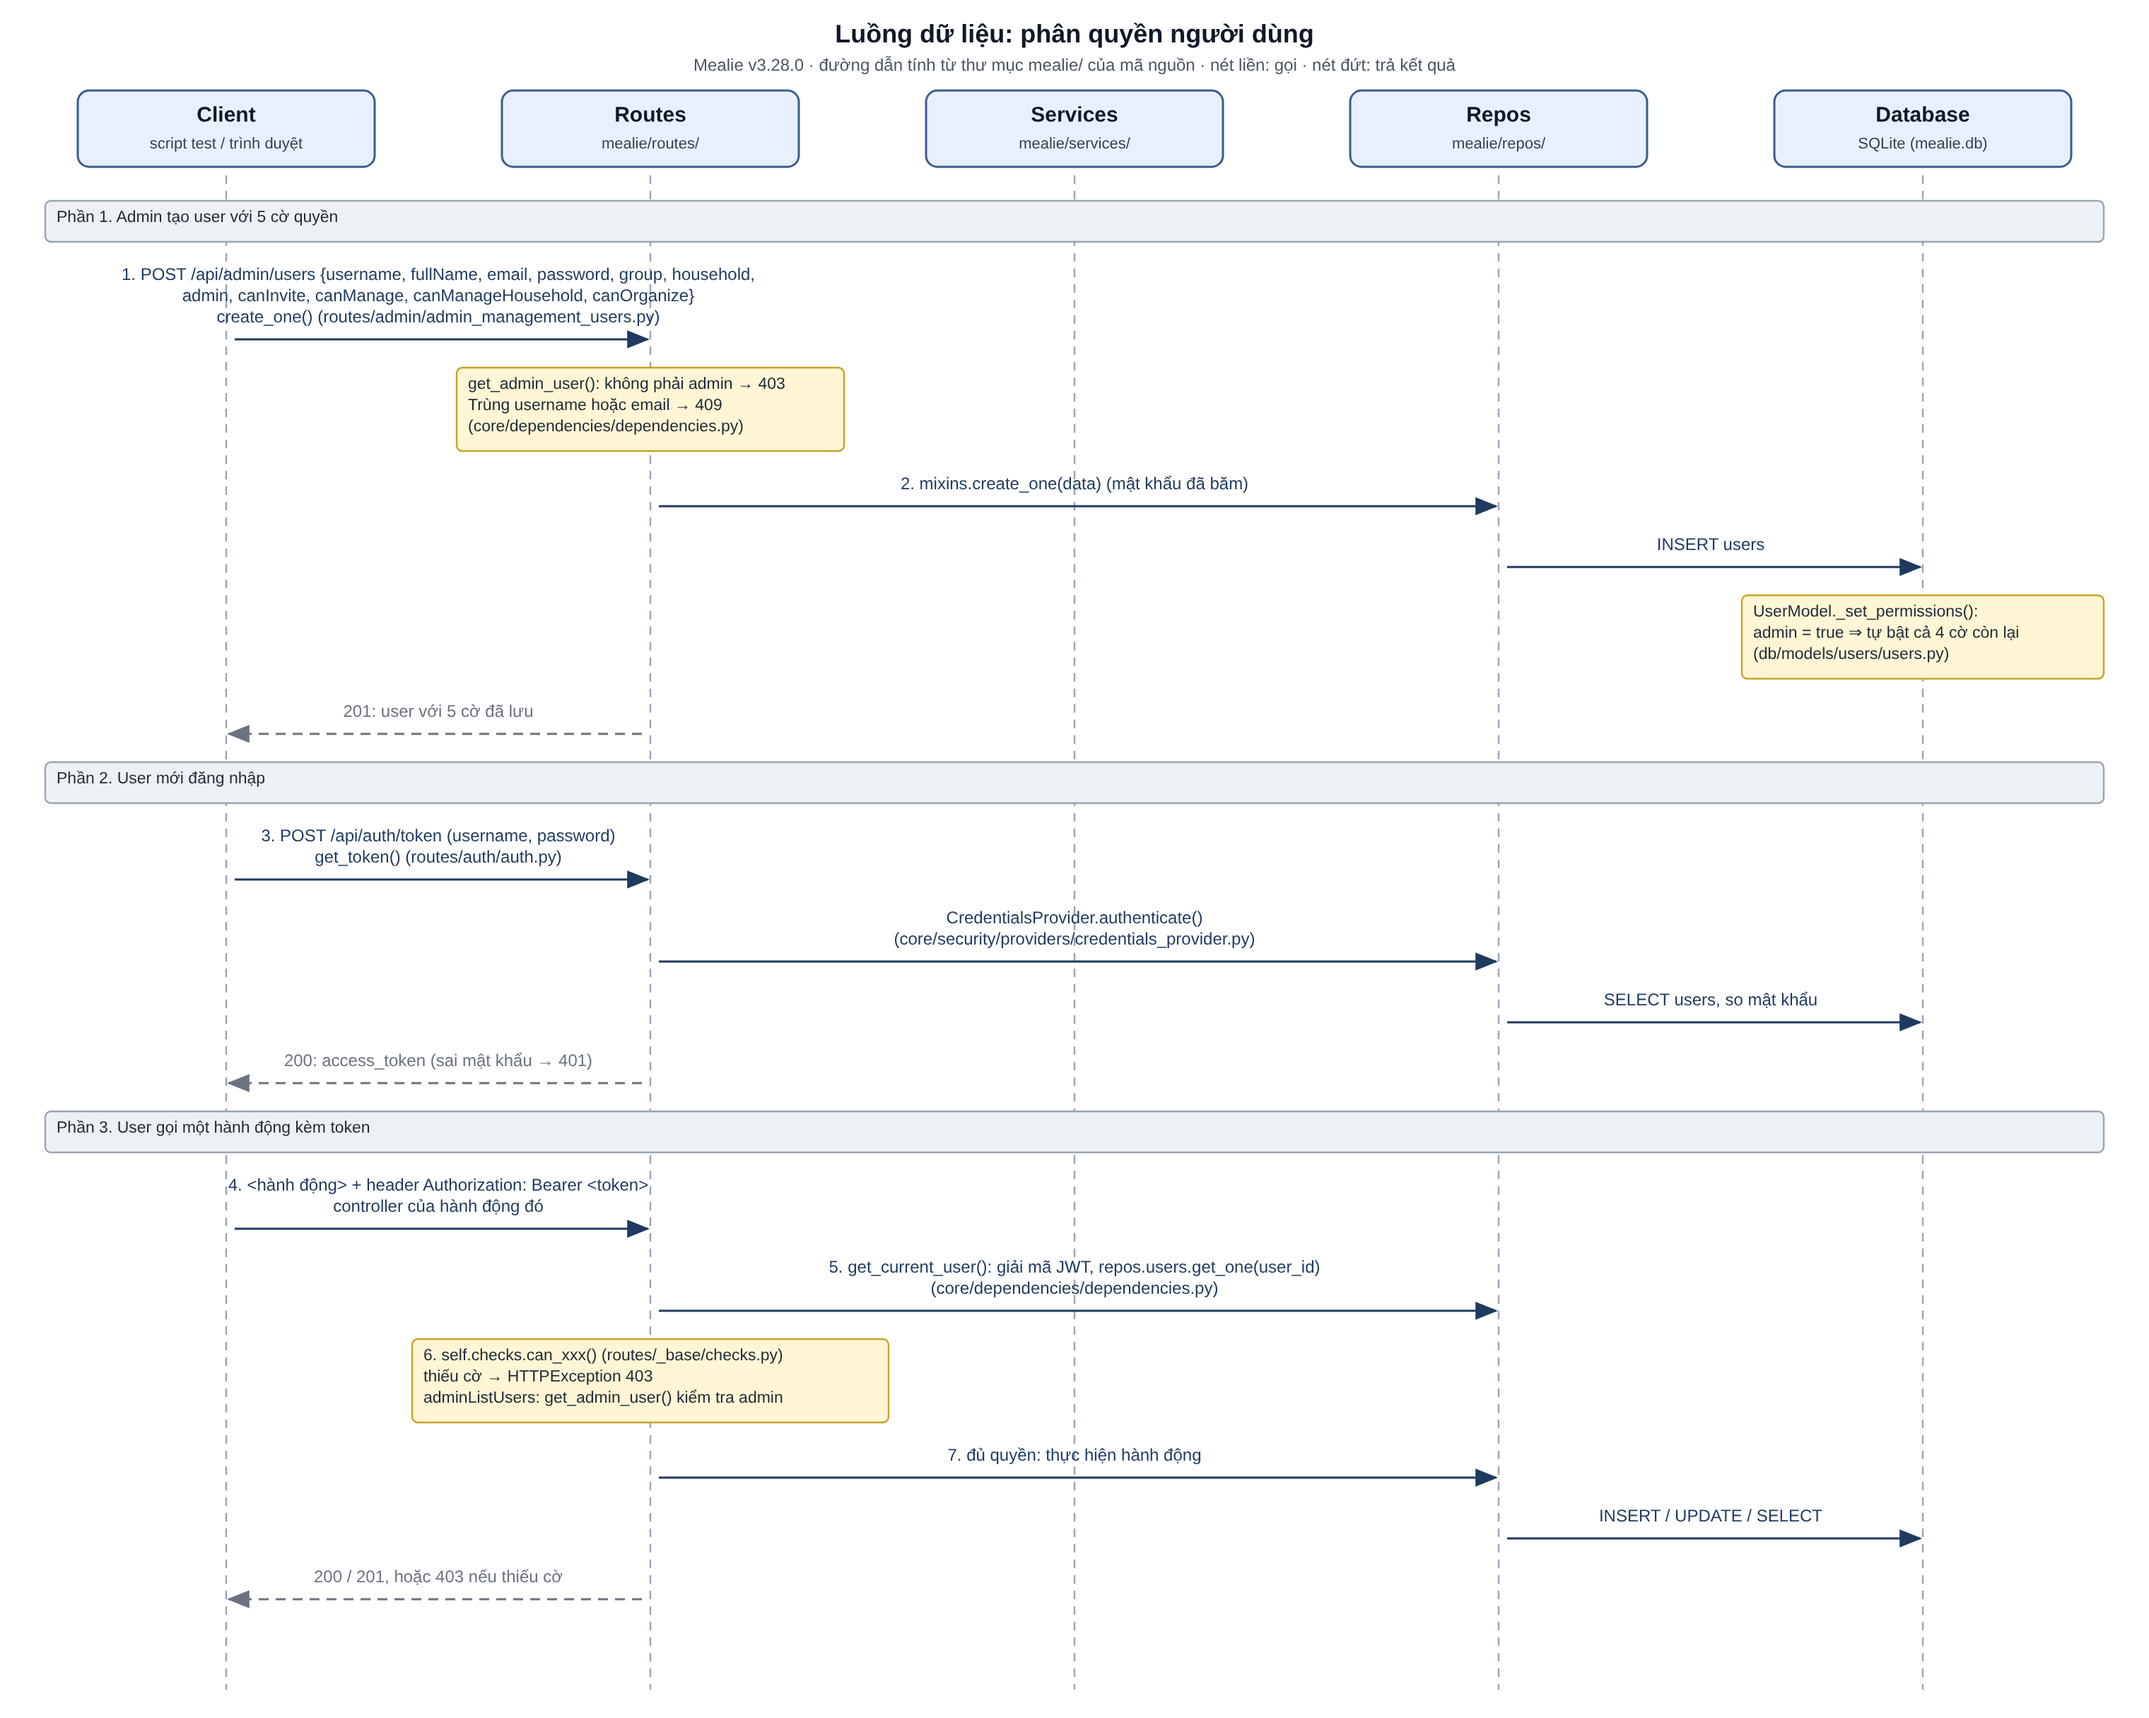
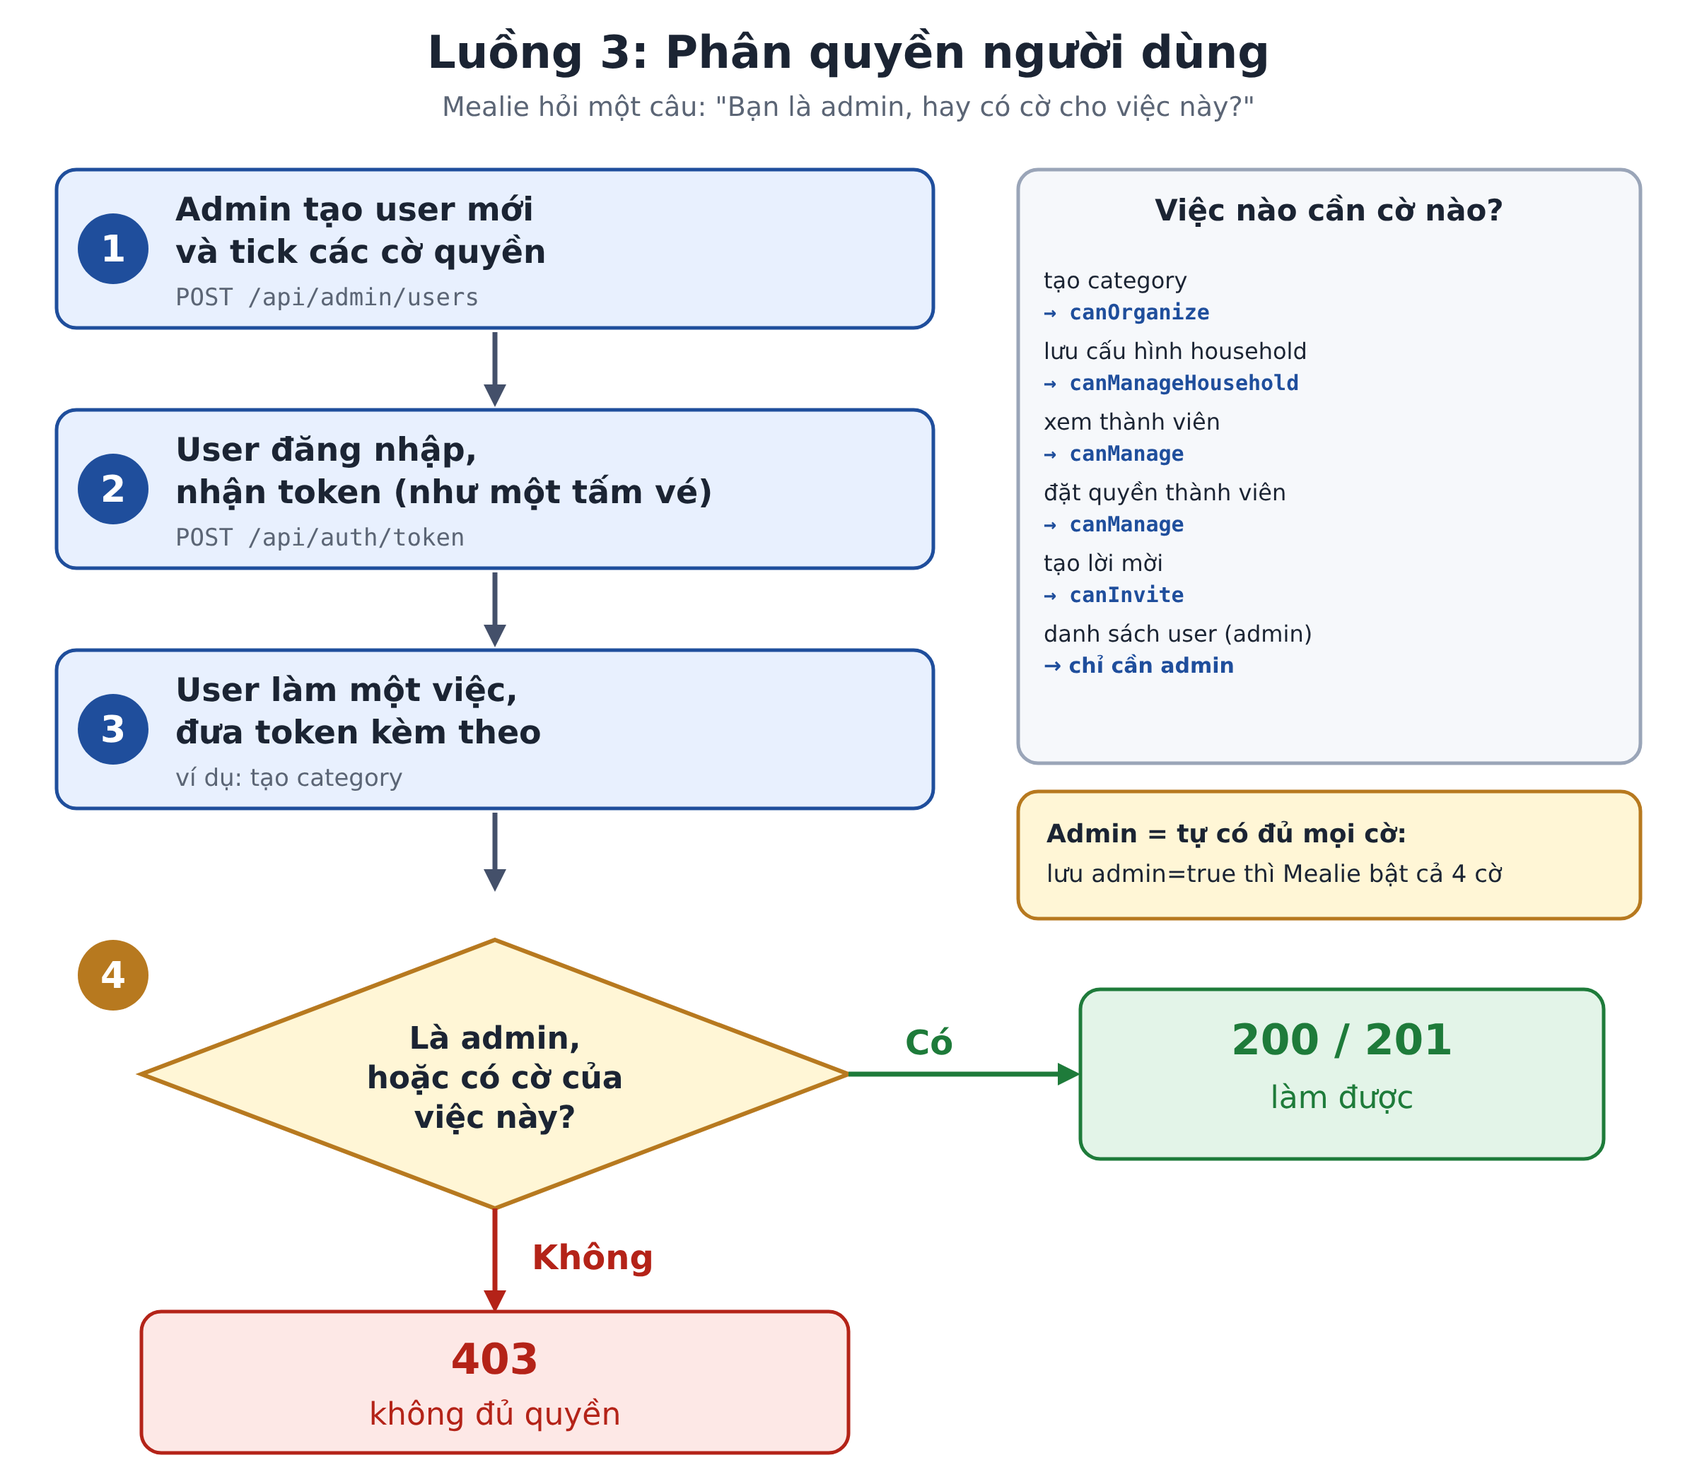
[A] Cập nhật sơ đồ luồng và API

diff --git a/docs/muc-a.md b/docs/muc-a.md
@@ -150,7 +150,7 @@ SQLite là mặc định (`DB_ENGINE = "sqlite"` trong `core/settings/settings.p
 
 ## A.6 Luồng dữ liệu của 3 nghiệp vụ
 
-Mỗi sơ đồ dưới đây là sơ đồ tuần tự gồm 5 cột: Client (script test hoặc trình duyệt), Routes, Services, Repos, Database. Mũi tên nét liền là lời gọi, nét đứt là kết quả trả về; trên mũi tên ghi tên hàm thật của Mealie `v3.28.0`, đường dẫn tính từ thư mục `mealie/` của mã nguồn. File nguồn `.drawio` nằm trong `docs/so-do/`.
+Mỗi sơ đồ dưới đây vẽ một luồng từ trên xuống dưới. Mỗi ô là một bước, tên API hoặc hàm thật của Mealie `v3.28.0` (nếu có) ghi bằng chữ nhỏ trong ô; ô màu xanh lá là kết quả mong đợi, ô màu đỏ là trường hợp bị từ chối hoặc cần cẩn thận, hình trụ là cơ sở dữ liệu. Phần mô tả bên dưới mỗi hình nêu thêm tên hàm trong mã nguồn, đường dẫn tính từ thư mục `mealie/`. File nguồn `.svg` của các hình nằm trong `docs/so-do/`.
 
 ### A.6.1 Cấu hình household
 
